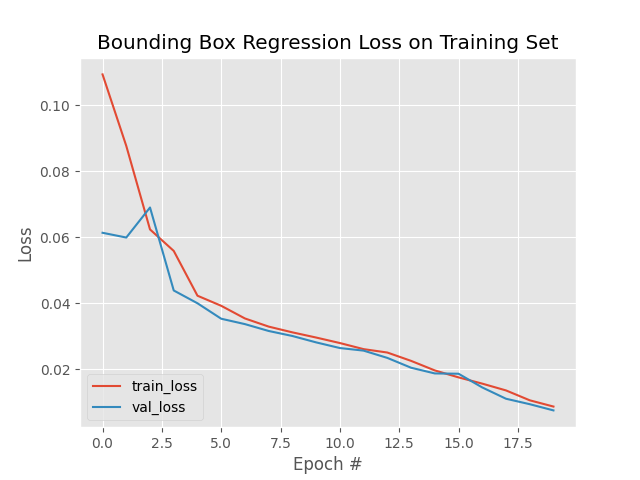
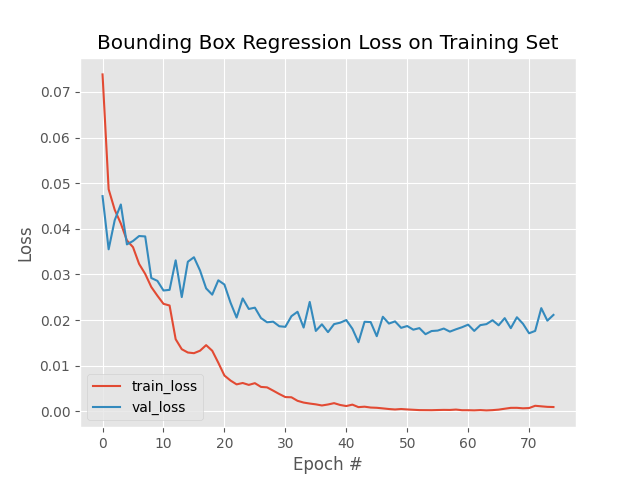
Fix dataset drawing and improve model head

diff --git a/prototype-keras-od/train_vgg.py b/prototype-keras-od/train_vgg.py
@@ -18,48 +18,14 @@ from tensorflow.keras.models import Model
 from tensorflow.keras.optimizers import Adam
 from tensorflow.keras.preprocessing.image import img_to_array
 from tensorflow.keras.preprocessing.image import load_img
-from sklearn.model_selection import train_test_split
 import matplotlib.pyplot as plt
 import numpy as np
 import cv2
 import os
 
-def unflatten(list, chunk_size):
-    return [list[n:n+chunk_size] for n in range(0, len(list), chunk_size)]
-
-def load_dataset(file_paths):
-    data = []
-    targets = []
-    filenames = []
-
-    for img_spath in data_img_paths:
-        img_path = Path(img_spath)
-        txt_path = img_path.parent / (str(img_path.stem)+'_yolo.txt')
-        
-        print((txt_path, img_path))
-        boxes = []
-        with open(txt_path) as f:
-            for row in f.readlines():
-                (class_label, x, y, w, h) = row.removesuffix("\n").split(" ")
-                boxes.extend((x, y, w, h))
-        
-        image = load_img(img_path, target_size=(img_size[0], img_size[1]))
-        image = img_to_array(image)
-        
-        data.append(image)
-        targets.append(boxes)
-        filenames.append(Path(img_path).stem)
-
-    data = np.array(data, dtype="float32") / 255.0
-    targets = np.array(targets, dtype="float32")
-    
-    return data, targets, filenames
-
-
-
 img_size = (320, 320)
 boxes_per_image = 4
-epochs = 20
+epochs = 75
 
 root_dir = Path(__file__).resolve().parent
 dataseries_t1_dir = root_dir/'..'/'traindata-creator'/'dataseries-320-webcam-images-1312ecab-04e7-4f45-a714-07365d8c0dae'/'images_traindata'
@@ -89,20 +55,72 @@ val_img_paths = sorted(
     ]
 )
 
-trainImages, trainTargets, trainFilenames = load_dataset(data_img_paths)
-testImages, testTargets, testFilenames = load_dataset(val_img_paths)
+def unflatten(list, chunk_size):
+    return [list[n:n+chunk_size] for n in range(0, len(list), chunk_size)]
+
+def load_dataset(file_paths, img_size):
+    data = []
+    targets = []
+    filenames = []
+
+    for img_spath in file_paths:
+        img_path = Path(img_spath)
+        txt_path = img_path.parent / (str(img_path.stem)+'_yolo.txt')
+        
+        #print((txt_path, img_path))
+        boxes = []
+        with open(txt_path) as f:
+            for row in f.readlines():
+                (class_label, x, y, w, h) = row.removesuffix("\n").split(" ")
+                boxes.extend((x, y, w, h))
+        
+        image = load_img(img_path, target_size=(img_size[0], img_size[1]))
+        image = img_to_array(image)
+        
+        data.append(image)
+        targets.append(boxes)
+        filenames.append(Path(img_path).stem)
+
+    data = np.array(data, dtype="float32") / 255.0
+    targets = np.array(targets, dtype="float32")
+    
+    return data, targets, filenames
+
+trainImages, trainTargets, trainFilenames = load_dataset(data_img_paths, img_size)
+testImages, testTargets, testFilenames = load_dataset(val_img_paths, img_size)
+
+# Test traindata
+for data_img_path, data_target, data_filename in zip(data_img_paths, trainTargets, trainFilenames):
+    image = cv2.imread(data_img_path)
+    
+    rects = unflatten(data_target, 4)
+    #print("rects", rects)
+    for rect in rects:
+        x = int(rect[0] * img_size[0])
+        y = int(rect[1] * img_size[1])
+        w = int(rect[2] * img_size[0])
+        h = int(rect[3] * img_size[1])
+        #print(x, y, w, h)
+        cv2.rectangle(image, (x, y), (x+w, y+h), (0, 255, 0), 2)
+    
+    print(f"Traindata {data_filename}")
+    cv2.imshow("Traindata", image)
+    k = cv2.waitKey(0)
+    if k == ord('q'):
+            break
 
 # Model
-
 vgg = VGG16(weights="imagenet", include_top=False,
 	input_tensor=Input(shape=(img_size[0], img_size[1], 3)))
+vgg.trainable = False
 
 flatten = vgg.output
+print(vgg.output)
 flatten = Flatten()(flatten)
 
-bboxHead = Dense(128, activation="relu")(flatten)
+bboxHead = Dense(256, activation="relu")(flatten)
+bboxHead = Dense(128, activation="relu")(bboxHead)
 bboxHead = Dense(64, activation="relu")(bboxHead)
-bboxHead = Dense(32, activation="relu")(bboxHead)
 bboxHead = Dense(4*boxes_per_image, activation="sigmoid")(bboxHead)
 
 model = Model(inputs=vgg.input, outputs=bboxHead)
@@ -114,7 +132,7 @@ print(model.summary())
 H = model.fit(
 	trainImages, trainTargets,
 	validation_data=(testImages, testTargets),
-	batch_size=16,
+	batch_size=8,
 	epochs=epochs,
 	verbose=1)
 
@@ -145,7 +163,13 @@ for val_img in val_img_paths:
     image = cv2.imread(val_img)
     
     for rect in rects:
-        cv2.rectangle(image, (int(rect[0] * img_size[0]), int(rect[1] * img_size[1])), (int(rect[2] * img_size[0]), int(rect[3] * img_size[1])), (0, 255, 0), 2)
+        x = int(rect[0] * img_size[0])
+        y = int(rect[1] * img_size[1])
+        w = int(rect[2] * img_size[0])
+        h = int(rect[3] * img_size[1])
+        cv2.rectangle(image, (x, y), (x+w, y+h), (0, 255, 0), 2)
     
-    cv2.imshow("Output", image)
-    cv2.waitKey(0)
+    cv2.imshow("Model Prediction", image)
+    k = cv2.waitKey(0)
+    if k == ord('q'):
+            break
